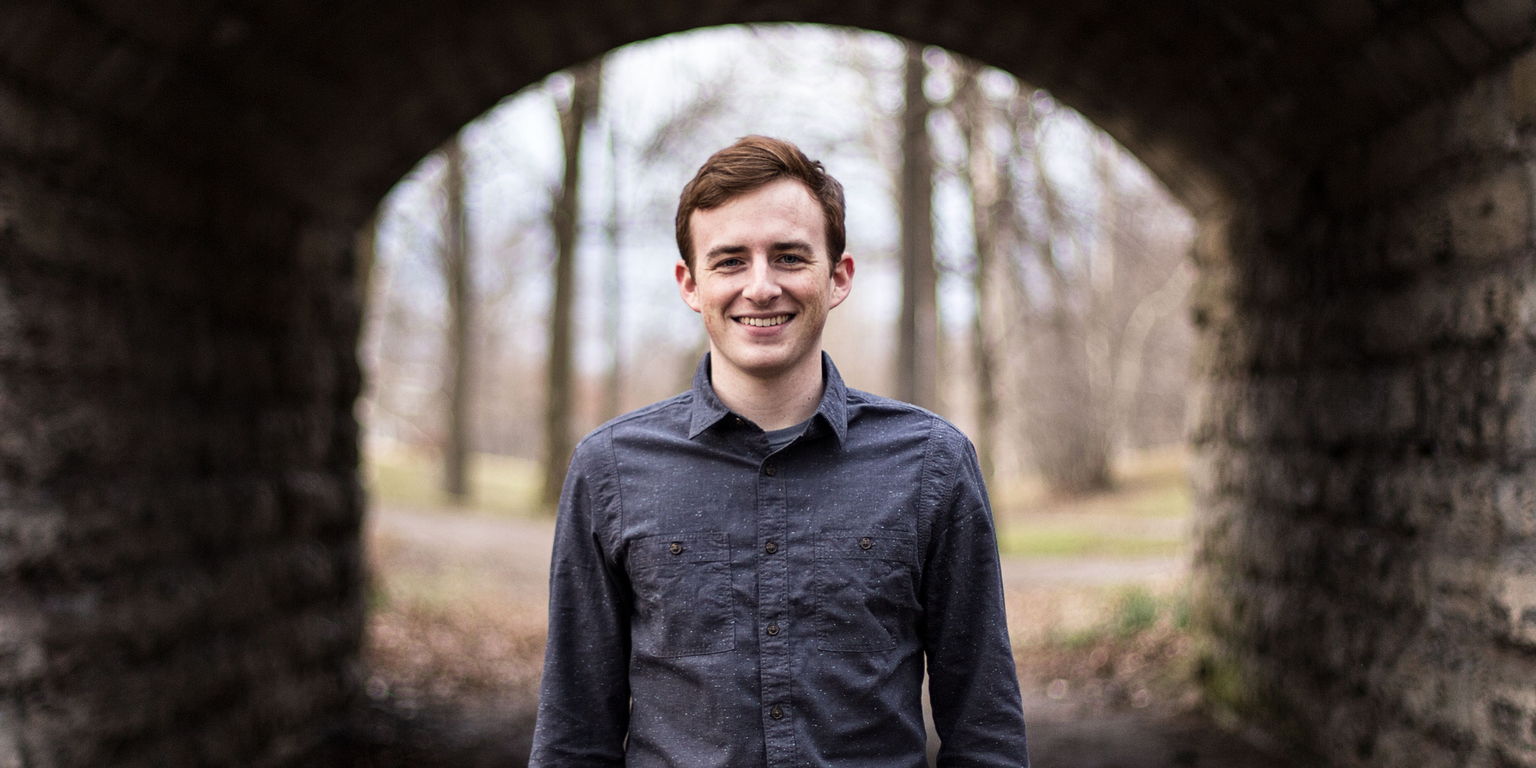
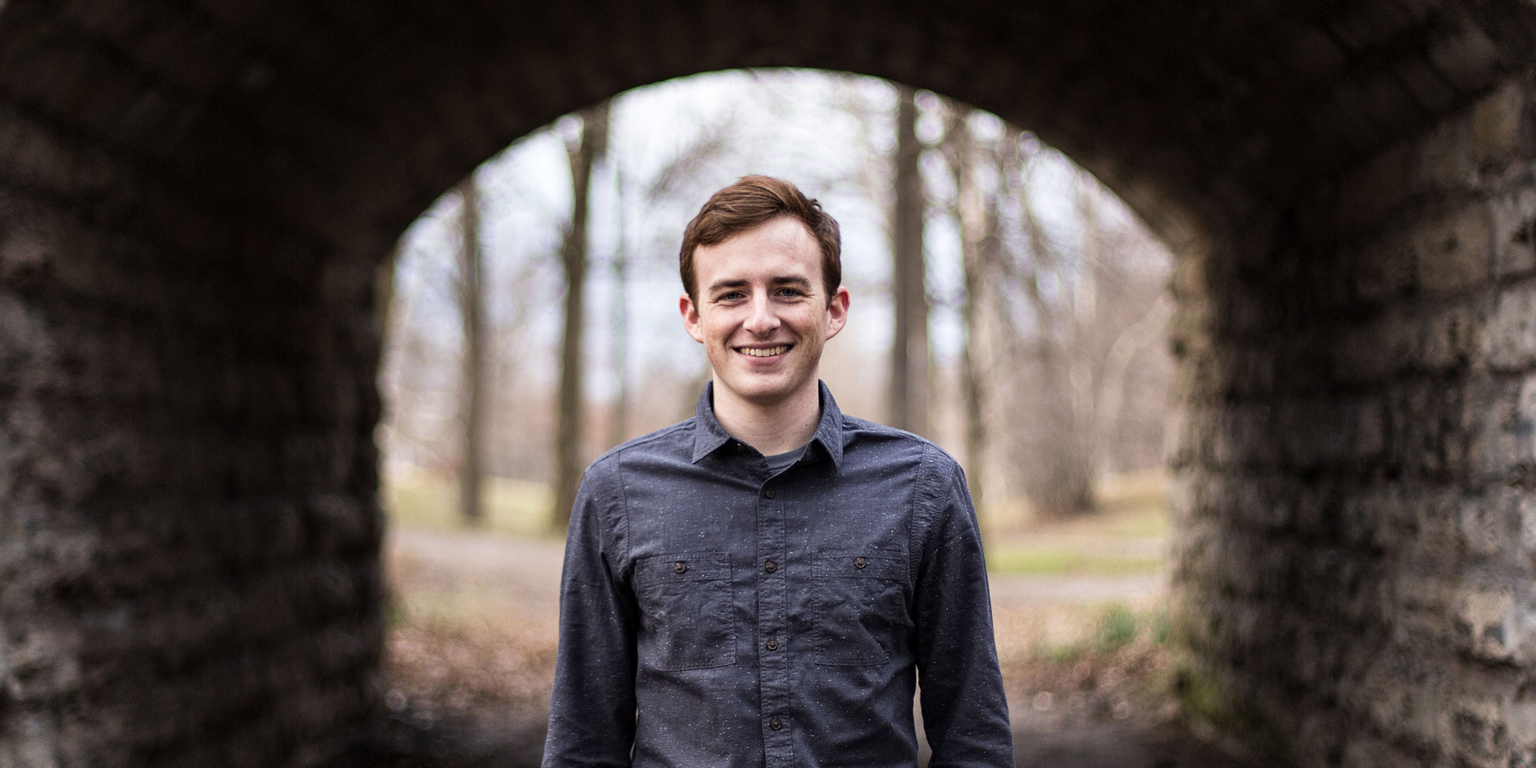
tune hero images

diff --git a/css/main.css b/css/main.css
@@ -108,7 +108,7 @@ ul {
 
 
 /* --------------------------------------------------- *\
-	_animation view
+	_view
 \* --------------------------------------------------- */
 
 @keyframes in {
@@ -179,8 +179,8 @@ ul {
 }
 
 #logo img {
-	height: 4em;
-	margin-top: 2em;
+	height: 5em;
+	margin-top: 1.5em;
 }
 
 #logo:after {
@@ -198,7 +198,7 @@ ul {
 
 header {
 	position: relative;
-	height: calc(100vh - 2em);
+	height: 100vh; 
 	width: 100%;
 	text-align: center;
 	z-index: 1;
@@ -253,8 +253,8 @@ main {
 .chevron::before {
 	content: "";
 	display: block;
-	border-left: 50vw solid #fff;
-	border-right: 50vw solid #fff;
+	border-left: 51vw solid #fff;
+	border-right: 51vw solid #fff;
 	border-top: 15vw solid transparent;
 	position: absolute;
 	left: 50%;
@@ -815,12 +815,29 @@ footer a img {
 
 @media all and (max-width: 50em) and (orientation: landscape) {
 	#catch {
-		bottom: 21%;
-		font-size: 2vw;
+		bottom: 10%;
+		font-size: 1.5vw;
+	}
+
+	#hero {
+		background-image: url(../images/portrait.jpg);
 	}
 
 	main {
-		box-shadow: 0 -8em 20em rgba(0,0,0,0.5);
+		box-shadow: 0 -2em 10em rgba(0,0,0,0.5);
+	}
+
+	#logo {
+		height: 6em;
+	}
+
+	#logo img {
+		height: 4em;
+		margin-top: 1em;
+	}
+
+	#logo:after {
+		border-width: 6em 20em 0 20em;
 	}
 
 	#everyday {
@@ -830,6 +847,14 @@ footer a img {
 	#everydays {
 		max-width: 30em;
 	}
+
+	.project {
+		width: 100%;
+	}
+
+	.project-block h1 {
+		font-size: 9vw;
+	}
 }
 
 @media all and (max-width: 35em) {
@@ -838,6 +863,7 @@ footer a img {
 	}
 
 	#logo img {
+		height: 4em;
 		margin-top: 1em;
 	}
 

diff --git a/js/controllers/HomeCtrl.js b/js/controllers/HomeCtrl.js
@@ -3,7 +3,7 @@ app.controller('HomeCtrl', function () {
 	var windowHeight,
 		windowWidth;
 
-	var buffer = 32;
+	var buffer = 0;
 
 	var header = document.getElementsByTagName('header')[0];
 	var hero = document.getElementById('hero');
